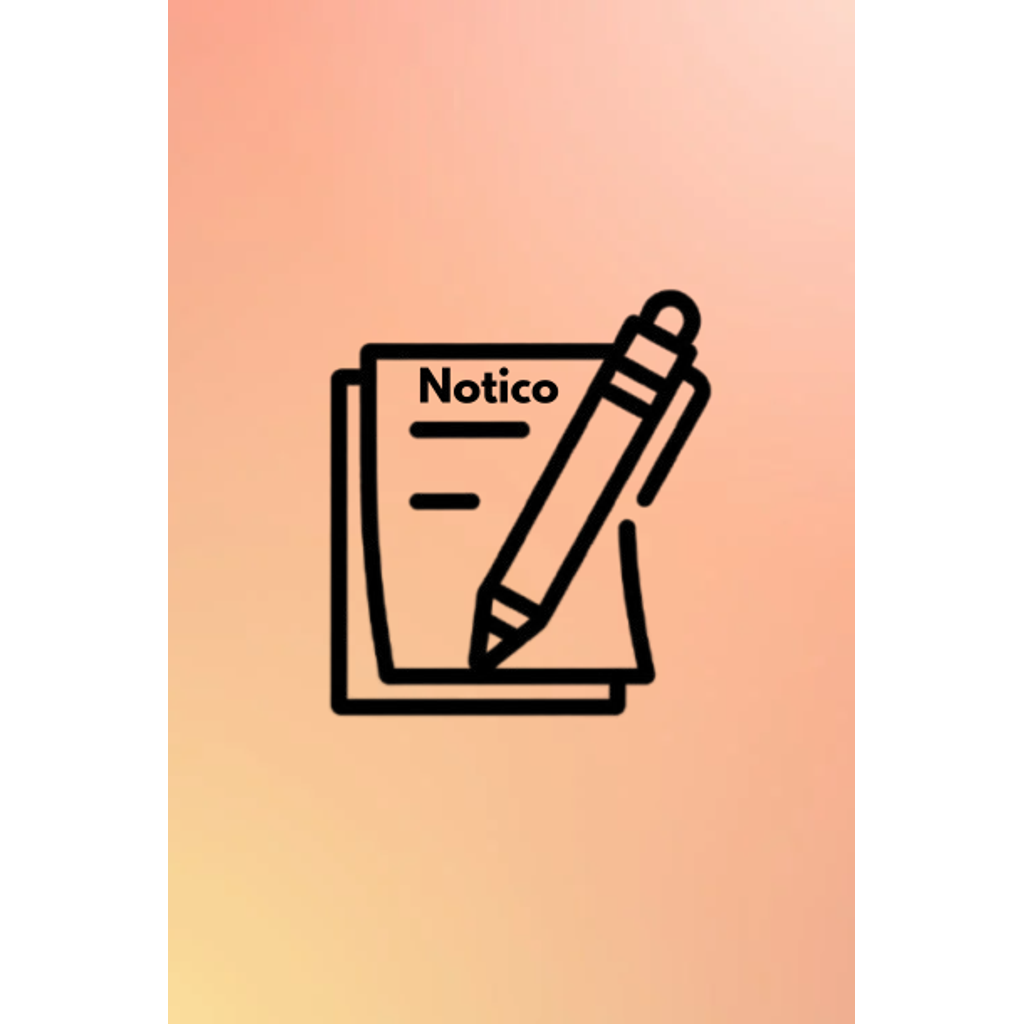
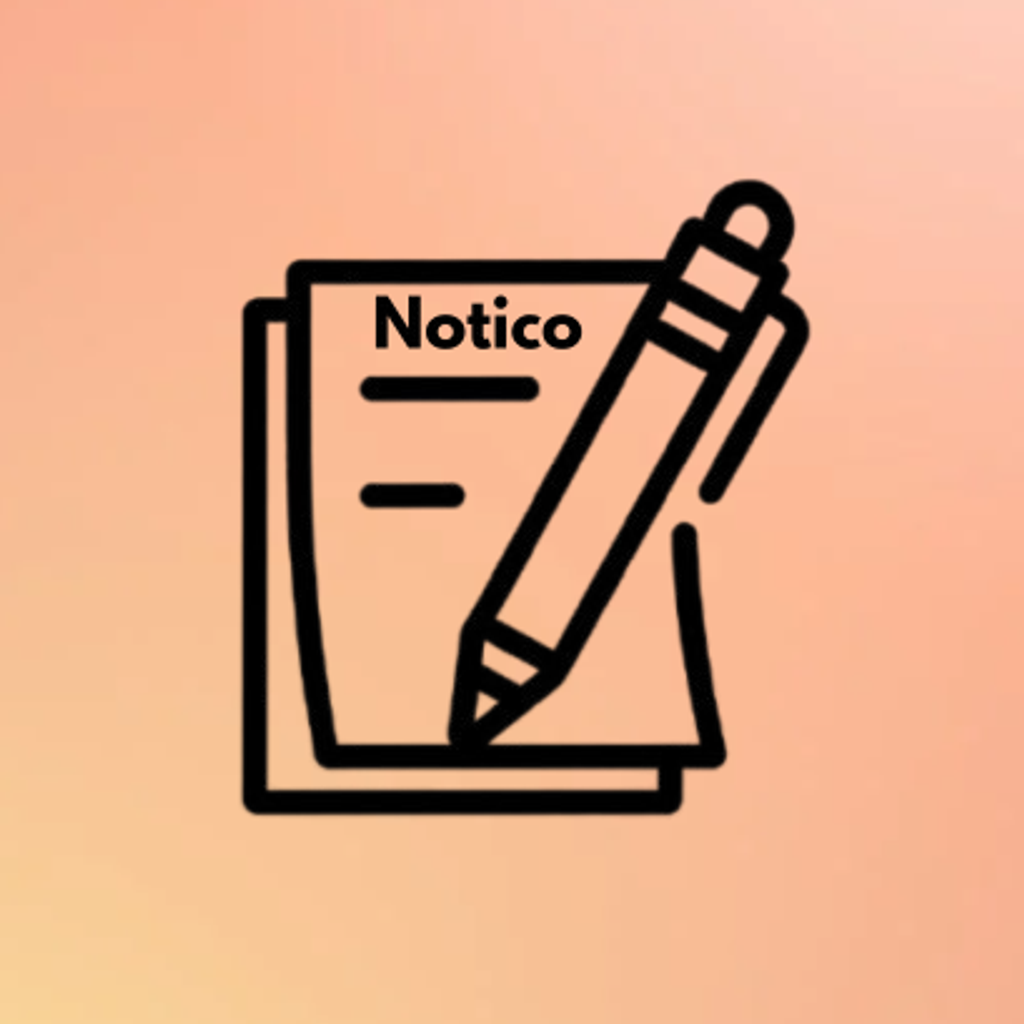
feat(ios): App Store submission pipeline (privacy manifest, version bump, build script)
- Add PrivacyInfo.xcprivacy declaring UserDefaults / FileTimestamp /
  SystemBootTime / DiskSpace required-reason APIs (App Store has required
  this manifest for all submissions since May 2024). Wired into the App
  target's Resources build phase
- Align iOS MARKETING_VERSION with package.json (2.4.2); reset
  CURRENT_PROJECT_VERSION to track build numbers per upload
- scripts/build-ios.js — runs cap sync ios, auto-bumps the build number
  in the pbxproj, archives, exports an App-Store-signed .ipa via
  -allowProvisioningUpdates, optionally validates and uploads via altool
  when APPLE_ID + APPLE_APP_SPECIFIC_PASSWORD are set
- npm scripts: ios:build (archive + export + validate),
  ios:build:upload (also pushes to TestFlight)
- Swap public/icon-mac-1024.png for the existing branded iOS AppIcon
  (1024x1024, no alpha) so Mac and iOS use a consistent icon. The
  generated padded version was visually inferior
- Ignore dist-ios/

Pipeline verified end-to-end: ARCHIVE SUCCEEDED → EXPORT SUCCEEDED →
xcrun altool --validate-app reports VERIFY SUCCEEDED with no errors.

diff --git a/scripts/build-ios.js b/scripts/build-ios.js
@@ -1,0 +1,198 @@
+/**
+ * Build an iOS .ipa for App Store / TestFlight distribution.
+ *
+ * Steps:
+ *   1. inject-env.js inject  (so electron/main.js env propagates — noop for iOS but kept for symmetry)
+ *   2. next build + fix-standalone (so `out/` has fresh web assets for Capacitor)
+ *   3. npx cap sync ios
+ *   4. auto-bump CURRENT_PROJECT_VERSION (build number) in the pbxproj — App Store Connect
+ *      rejects duplicate build numbers for a given marketing version
+ *   5. xcodebuild archive -> .xcarchive
+ *   6. xcodebuild -exportArchive -> App.ipa
+ *   7. xcrun altool --validate-app (unless --skip-validate)
+ *   8. Optional: xcrun altool --upload-app if --upload and APPLE_ID creds are set
+ *   9. inject-env.js restore
+ *
+ * Usage:
+ *   node scripts/build-ios.js           # archive + export + validate
+ *   node scripts/build-ios.js --upload  # also upload to TestFlight (requires APPLE_ID creds)
+ *   node scripts/build-ios.js --skip-validate
+ *
+ * Requirements on the host Mac:
+ *   - Xcode installed, Apple ID with team XJ2JD24RGF logged into Xcode
+ *   - An Apple Distribution cert (not Developer ID) in the keychain
+ *   - App Store provisioning profile (Xcode's Automatic signing will fetch this)
+ *   - For --upload: .env with APPLE_ID + APPLE_APP_SPECIFIC_PASSWORD + APPLE_TEAM_ID
+ */
+const fs = require("fs");
+const path = require("path");
+const { execFileSync, execSync } = require("child_process");
+
+const ROOT = path.join(__dirname, "..");
+const IOS_PROJECT = path.join(ROOT, "ios/App/App.xcodeproj");
+const SCHEME = "App";
+const BUILD_DIR = path.join(ROOT, "dist-ios");
+const ARCHIVE_PATH = path.join(BUILD_DIR, "App.xcarchive");
+const IPA_DIR = path.join(BUILD_DIR, "ipa");
+const EXPORT_PLIST = path.join(BUILD_DIR, "export-options.plist");
+const ENV_FILE = path.join(ROOT, ".env");
+
+const args = process.argv.slice(2);
+const flag = (name) => args.includes(name);
+const UPLOAD = flag("--upload");
+const SKIP_VALIDATE = flag("--skip-validate");
+const METHOD = flag("--ad-hoc") ? "ad-hoc" : "app-store-connect";
+
+function sh(cmd, cmdArgs, opts = {}) {
+  console.log(`$ ${cmd} ${cmdArgs.join(" ")}`);
+  return execFileSync(cmd, cmdArgs, { stdio: "inherit", ...opts });
+}
+
+function parseEnv(filePath) {
+  const vars = {};
+  if (!fs.existsSync(filePath)) return vars;
+  for (const line of fs.readFileSync(filePath, "utf-8").split("\n")) {
+    const t = line.trim();
+    if (!t || t.startsWith("#")) continue;
+    const i = t.indexOf("=");
+    if (i === -1) continue;
+    vars[t.slice(0, i).trim()] = t.slice(i + 1).trim();
+  }
+  return vars;
+}
+
+function bumpBuildNumber() {
+  // Read CURRENT_PROJECT_VERSION from pbxproj, increment, write back.
+  // Done in plain text since we want to avoid a Ruby dep here.
+  const pbx = path.join(IOS_PROJECT, "project.pbxproj");
+  let content = fs.readFileSync(pbx, "utf-8");
+  const match = content.match(/CURRENT_PROJECT_VERSION = (\d+);/);
+  if (!match) throw new Error("CURRENT_PROJECT_VERSION not found in pbxproj");
+  const current = parseInt(match[1], 10);
+  const next = current + 1;
+  content = content.replace(/CURRENT_PROJECT_VERSION = \d+;/g, `CURRENT_PROJECT_VERSION = ${next};`);
+  fs.writeFileSync(pbx, content);
+  console.log(`build-ios: bumped CURRENT_PROJECT_VERSION ${current} -> ${next}`);
+  return next;
+}
+
+function writeExportOptions(teamId) {
+  const plist = `<?xml version="1.0" encoding="UTF-8"?>
+<!DOCTYPE plist PUBLIC "-//Apple//DTD PLIST 1.0//EN" "http://www.apple.com/DTDs/PropertyList-1.0.dtd">
+<plist version="1.0">
+<dict>
+    <key>method</key>
+    <string>${METHOD}</string>
+    <key>teamID</key>
+    <string>${teamId}</string>
+    <key>signingStyle</key>
+    <string>automatic</string>
+    <key>stripSwiftSymbols</key>
+    <true/>
+    <key>uploadBitcode</key>
+    <false/>
+    <key>uploadSymbols</key>
+    <true/>
+</dict>
+</plist>
+`;
+  fs.writeFileSync(EXPORT_PLIST, plist);
+}
+
+function main() {
+  if (process.platform !== "darwin") {
+    console.error("build-ios: iOS builds require macOS.");
+    process.exit(1);
+  }
+
+  fs.rmSync(BUILD_DIR, { recursive: true, force: true });
+  fs.mkdirSync(BUILD_DIR, { recursive: true });
+
+  const env = { ...parseEnv(ENV_FILE), ...process.env };
+  const teamId = env.APPLE_TEAM_ID || "XJ2JD24RGF";
+
+  console.log("build-ios: injecting env vars (for symmetry with electron build)...");
+  try {
+    sh("node", ["scripts/inject-env.js", "inject"], { cwd: ROOT });
+  } catch (e) {
+    console.warn("build-ios: inject-env failed (missing .env?) — continuing without injection");
+  }
+
+  try {
+    console.log("build-ios: next build + fix-standalone...");
+    sh("npx", ["next", "build"], { cwd: ROOT });
+    if (fs.existsSync(path.join(ROOT, "scripts/fix-standalone.js"))) {
+      sh("node", ["scripts/fix-standalone.js"], { cwd: ROOT });
+    }
+
+    console.log("build-ios: npx cap sync ios...");
+    sh("npx", ["cap", "sync", "ios"], { cwd: ROOT });
+
+    bumpBuildNumber();
+
+    console.log("build-ios: archiving...");
+    sh("xcodebuild", [
+      "-project", IOS_PROJECT,
+      "-scheme", SCHEME,
+      "-configuration", "Release",
+      "-destination", "generic/platform=iOS",
+      "-archivePath", ARCHIVE_PATH,
+      "archive",
+      "-allowProvisioningUpdates",
+    ]);
+
+    console.log("build-ios: exporting .ipa...");
+    writeExportOptions(teamId);
+    sh("xcodebuild", [
+      "-exportArchive",
+      "-archivePath", ARCHIVE_PATH,
+      "-exportOptionsPlist", EXPORT_PLIST,
+      "-exportPath", IPA_DIR,
+      "-allowProvisioningUpdates",
+    ]);
+
+    const ipa = fs.readdirSync(IPA_DIR).find((f) => f.endsWith(".ipa"));
+    if (!ipa) throw new Error("no .ipa produced");
+    const ipaPath = path.join(IPA_DIR, ipa);
+    console.log(`build-ios: .ipa at ${ipaPath}`);
+
+    if (!SKIP_VALIDATE) {
+      const { APPLE_ID, APPLE_APP_SPECIFIC_PASSWORD } = env;
+      if (APPLE_ID && APPLE_APP_SPECIFIC_PASSWORD) {
+        console.log("build-ios: validating with App Store Connect...");
+        sh("xcrun", [
+          "altool", "--validate-app",
+          "-f", ipaPath,
+          "-t", "ios",
+          "-u", APPLE_ID,
+          "-p", APPLE_APP_SPECIFIC_PASSWORD,
+        ]);
+      } else {
+        console.warn("build-ios: skipping validation — APPLE_ID/APPLE_APP_SPECIFIC_PASSWORD missing");
+      }
+    }
+
+    if (UPLOAD) {
+      const { APPLE_ID, APPLE_APP_SPECIFIC_PASSWORD } = env;
+      if (!APPLE_ID || !APPLE_APP_SPECIFIC_PASSWORD) {
+        throw new Error("--upload requires APPLE_ID + APPLE_APP_SPECIFIC_PASSWORD in .env");
+      }
+      console.log("build-ios: uploading to App Store Connect (may take several minutes)...");
+      sh("xcrun", [
+        "altool", "--upload-app",
+        "-f", ipaPath,
+        "-t", "ios",
+        "-u", APPLE_ID,
+        "-p", APPLE_APP_SPECIFIC_PASSWORD,
+      ]);
+    }
+
+    console.log("build-ios: done.");
+  } finally {
+    try {
+      sh("node", ["scripts/inject-env.js", "restore"], { cwd: ROOT });
+    } catch {}
+  }
+}
+
+main();
